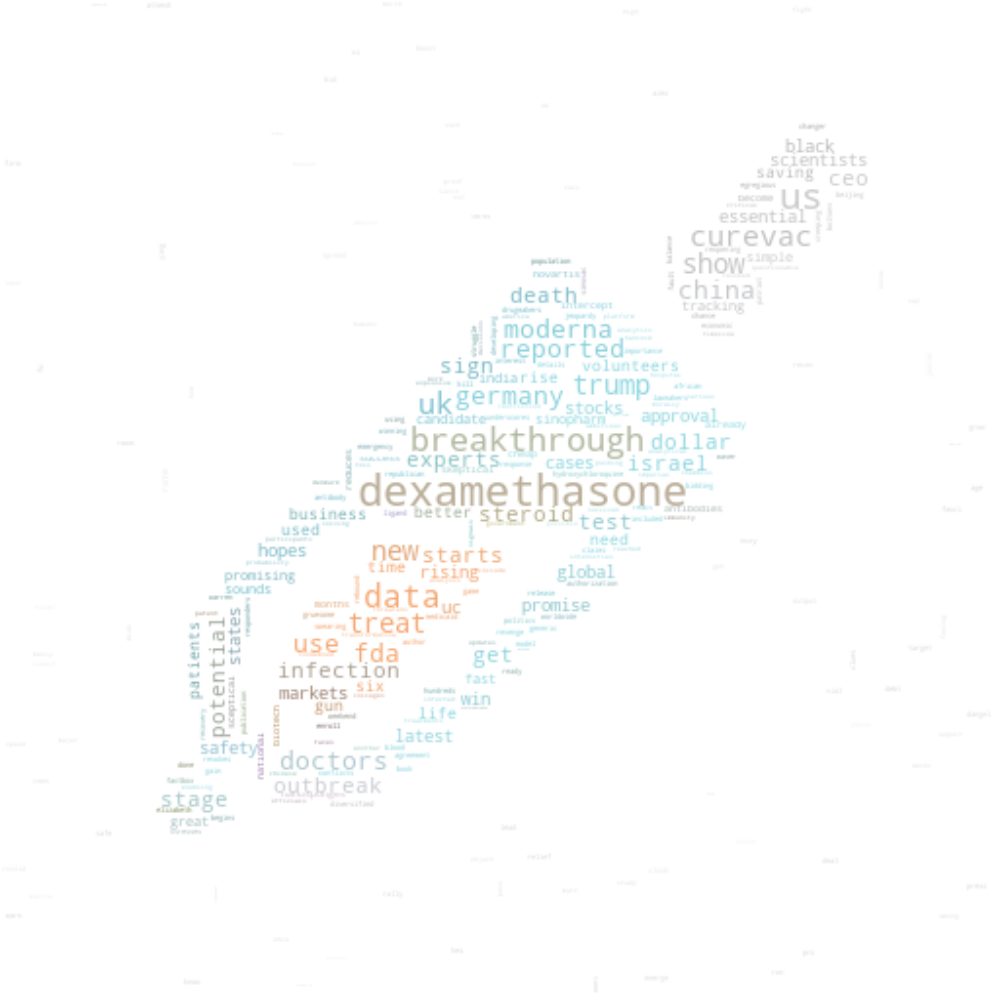
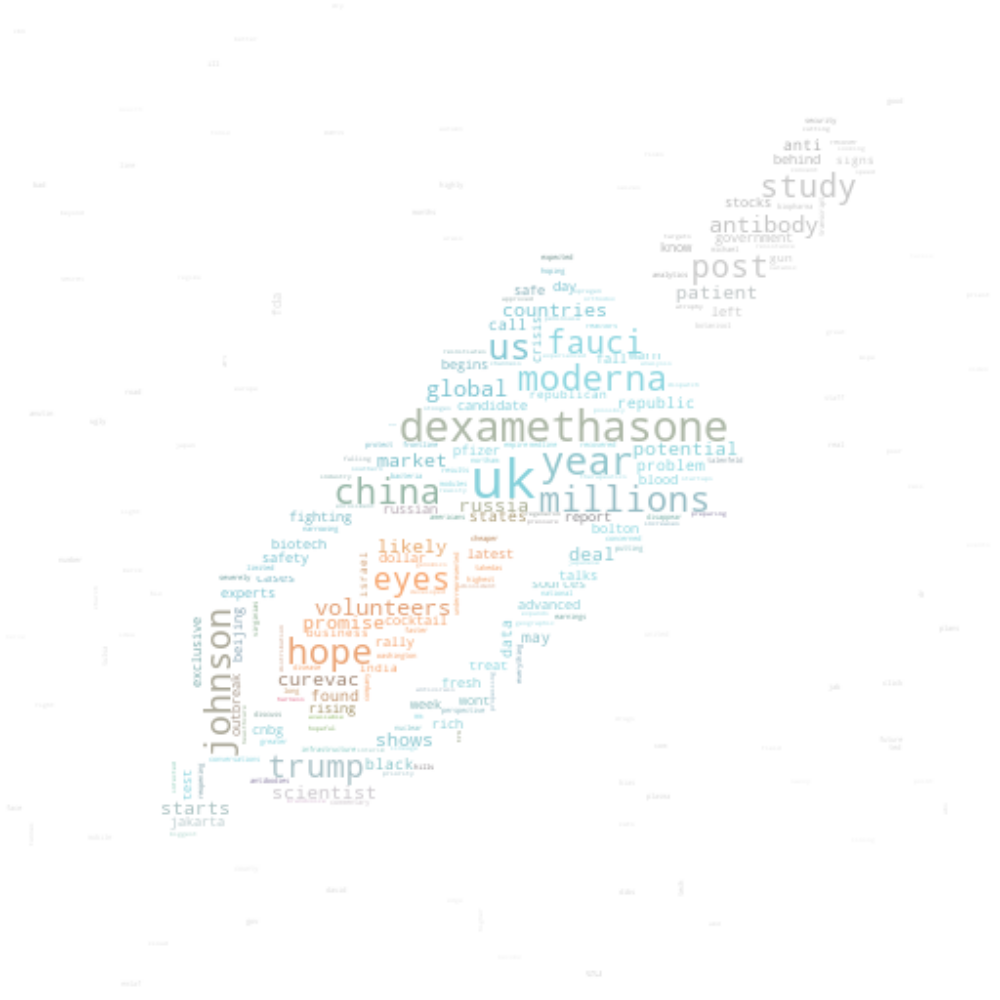
final

Changed region(s): [[0.155, 0.248, 0.744, 0.837], [0.651, 0.124, 0.868, 0.31]]

diff --git a/templates/index.html b/templates/index.html
@@ -285,10 +285,8 @@
                       <h2 style="text-align: center;">Conversation Summary Cloud</h2>
                           <br> 
                           <br> 
-                     <img src="static/images/VaxWC.png" alt="Summary Unavailable" width="600px" height="auto" style="position: relative;  display: block;   max-width: 99%;
-                     max-height: 99%;
-                     margin-left: auto;
-                     margin-right: auto;">
+                     <img src="static/images/VaxWC.png" alt="Summary Unavailable"  height="auto" style="position: relative;  display: block;   max-width: 99%;
+                    ">
                
                     </div>
                   </div>

diff --git a/app.py b/app.py
@@ -136,7 +136,7 @@ newsdf['clean_titles']=newsdf.title.apply(preprocessor)
 stop_words = nltk.corpus.stopwords.words('english')
 
 
-newStopWords = ["university","times","reuters","inc","international","organization","health","house","world","buy","pharma",'covid','sciences','hindustan','guide','institute','state','bbc','program','pharmaceuticals','innovations','cnn','grants','epidemic','respiratory','paycheck','protection','vaccine',"covid","coronavirus","today","trial","vaccines","could","trials","next","human","cancer","race","people","month","early","want","risk","science","pandemic","testing","second","says","start","phase","made","make","clinical","virus","update","update","final","treatment","research","nearly","begin","help","look","provides","kids","supply","stock","expert","doses","announces","plan","drug"]
+newStopWords = ["university","times","reuters","inc","international","organization","health","house","world","buy","pharma",'covid','sciences','hindustan','guide','institute','state','bbc','program','pharmaceuticals','innovations','cnn','grants','epidemic','respiratory','paycheck','protection','vaccine',"covid","coronavirus","today","trial","vaccines","could","trials","next","human","cancer","race","people","month","early","want","risk","science","pandemic","testing","second","says","start","phase","made","make","clinical","virus","update","update","final","treatment","research","nearly","begin","help","look","provides","kids","supply","stock","expert","doses","announces","plan","drug","new","hundreds","ceo","end"]
 _mask = np.array(Image.open("static/images/wordcloud.jpg").convert('RGB'))
 _mask[_mask==0]=255
 stop_words.extend(newStopWords)
